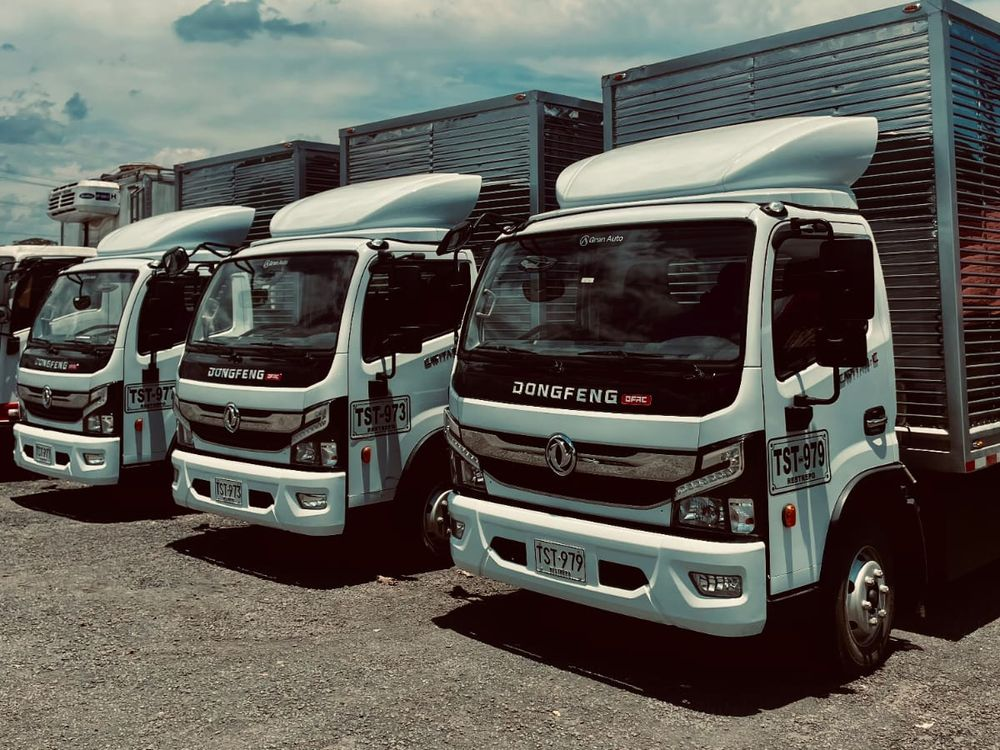
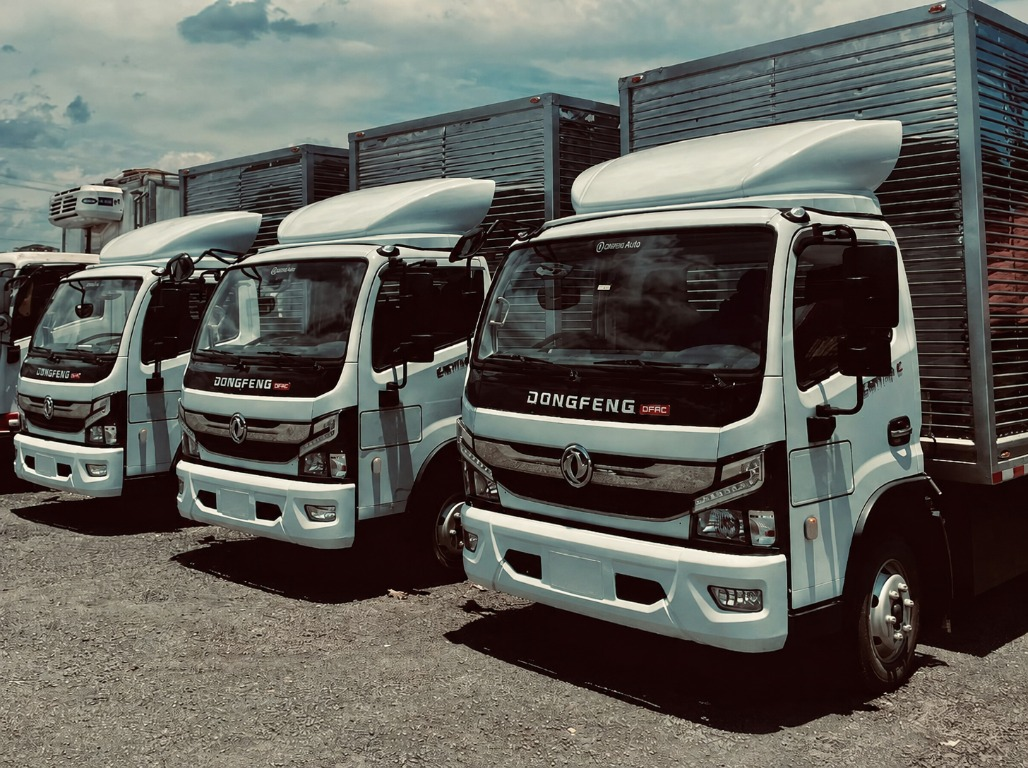
Actualizar fotos de la flota
Reemplaza las seis imágenes de flota por las nuevas fotos sin placas. Actualiza la galería de Nosotros y agrega una franja fotográfica de fondo en Inicio.

diff --git a/index.html b/index.html
@@ -22,6 +22,10 @@ footer .rights{flex-basis:100%;max-width:none;text-align:center}
 footer .nit{flex-basis:100%;text-align:center}
 .wa-float{transition:opacity .2s}
 .wa-float.oculto{opacity:0;pointer-events:none}
+.home-flota{position:relative;display:grid;align-items:center;min-height:clamp(300px,42vw,500px);padding:clamp(4rem,9vw,7rem) 0;color:#fff;background:linear-gradient(90deg,rgba(7,26,94,.88),rgba(7,26,94,.52)),url("flota-2.jpg") center 48%/cover no-repeat}
+.home-flota .head{margin:0;max-width:680px}
+.home-flota .head p{max-width:42ch;color:rgba(255,255,255,.9)}
+@media(max-width:620px){.home-flota{min-height:340px;background-position:42% center}.home-flota .head{max-width:34ch}}
 </style>
 </head>
 <body class="p-inicio">
@@ -101,6 +105,15 @@ footer .nit{flex-basis:100%;text-align:center}
         <li><a href="servicios.html"><svg class="ico ico-wh" viewBox="0 0 24 24" fill="none" stroke="currentColor" stroke-width="1.8" stroke-linecap="round" stroke-linejoin="round" aria-hidden="true"><path pathLength="1" d="M3 21V9l9-6 9 6v12"/><path pathLength="1" d="M7 21v-8h10v8M7 17h10"/></svg><b>Despacho y distribución</b><span>→</span></a></li>
         <li><a href="servicios.html"><svg class="ico ico-pin" viewBox="0 0 24 24" fill="none" stroke="currentColor" stroke-width="1.8" stroke-linecap="round" stroke-linejoin="round" aria-hidden="true"><path pathLength="1" d="M12 21s-6-5.2-6-10a6 6 0 1112 0c0 4.8-6 10-6 10z"/><circle pathLength="1" cx="12" cy="11" r="2.2"/></svg><b>Cobertura regional y nacional</b><span>→</span></a></li>
       </ul>
+    </div>
+  </section>
+
+  <section class="flota home-flota">
+    <div class="wrap">
+      <div class="head">
+        <h2>Tu carga, en buenas manos</h2>
+        <p>Una flota preparada para acompañar cada recorrido, con compromiso y seguridad.</p>
+      </div>
     </div>
   </section>
 

diff --git a/nosotros.html b/nosotros.html
@@ -71,7 +71,7 @@ footer .nit{flex-basis:100%;text-align:center}
       <!-- FOTOS: para agregar otra foto, copie un bloque <figure> completo y cambie el nombre del archivo y el texto -->
       <div class="photos">
         <figure><img src="flota-1.jpg" alt="Camiones blancos con furgón de aluminio estacionados en fila" style="aspect-ratio:4/3" loading="lazy"></figure>
-        <figure><img src="flota-2.jpg" alt="Fila de camiones vistos de lado, con sus placas" style="aspect-ratio:4/3" loading="lazy"></figure>
+        <figure><img src="flota-2.jpg" alt="Fila de camiones blancos vista de lado" style="aspect-ratio:4/3" loading="lazy"></figure>
         <figure><img src="flota-3.jpg" alt="Camiones de frente en el patio" style="aspect-ratio:4/3" loading="lazy"></figure>
         <figure><img src="flota-4.jpg" alt="Camiones con furgón de aluminio bajo un cielo azul" style="aspect-ratio:4/3" loading="lazy"></figure>
         <figure><img src="flota-5.jpg" alt="Camiones con furgón de aluminio estacionados en la vía" style="aspect-ratio:4/3" loading="lazy"></figure>
